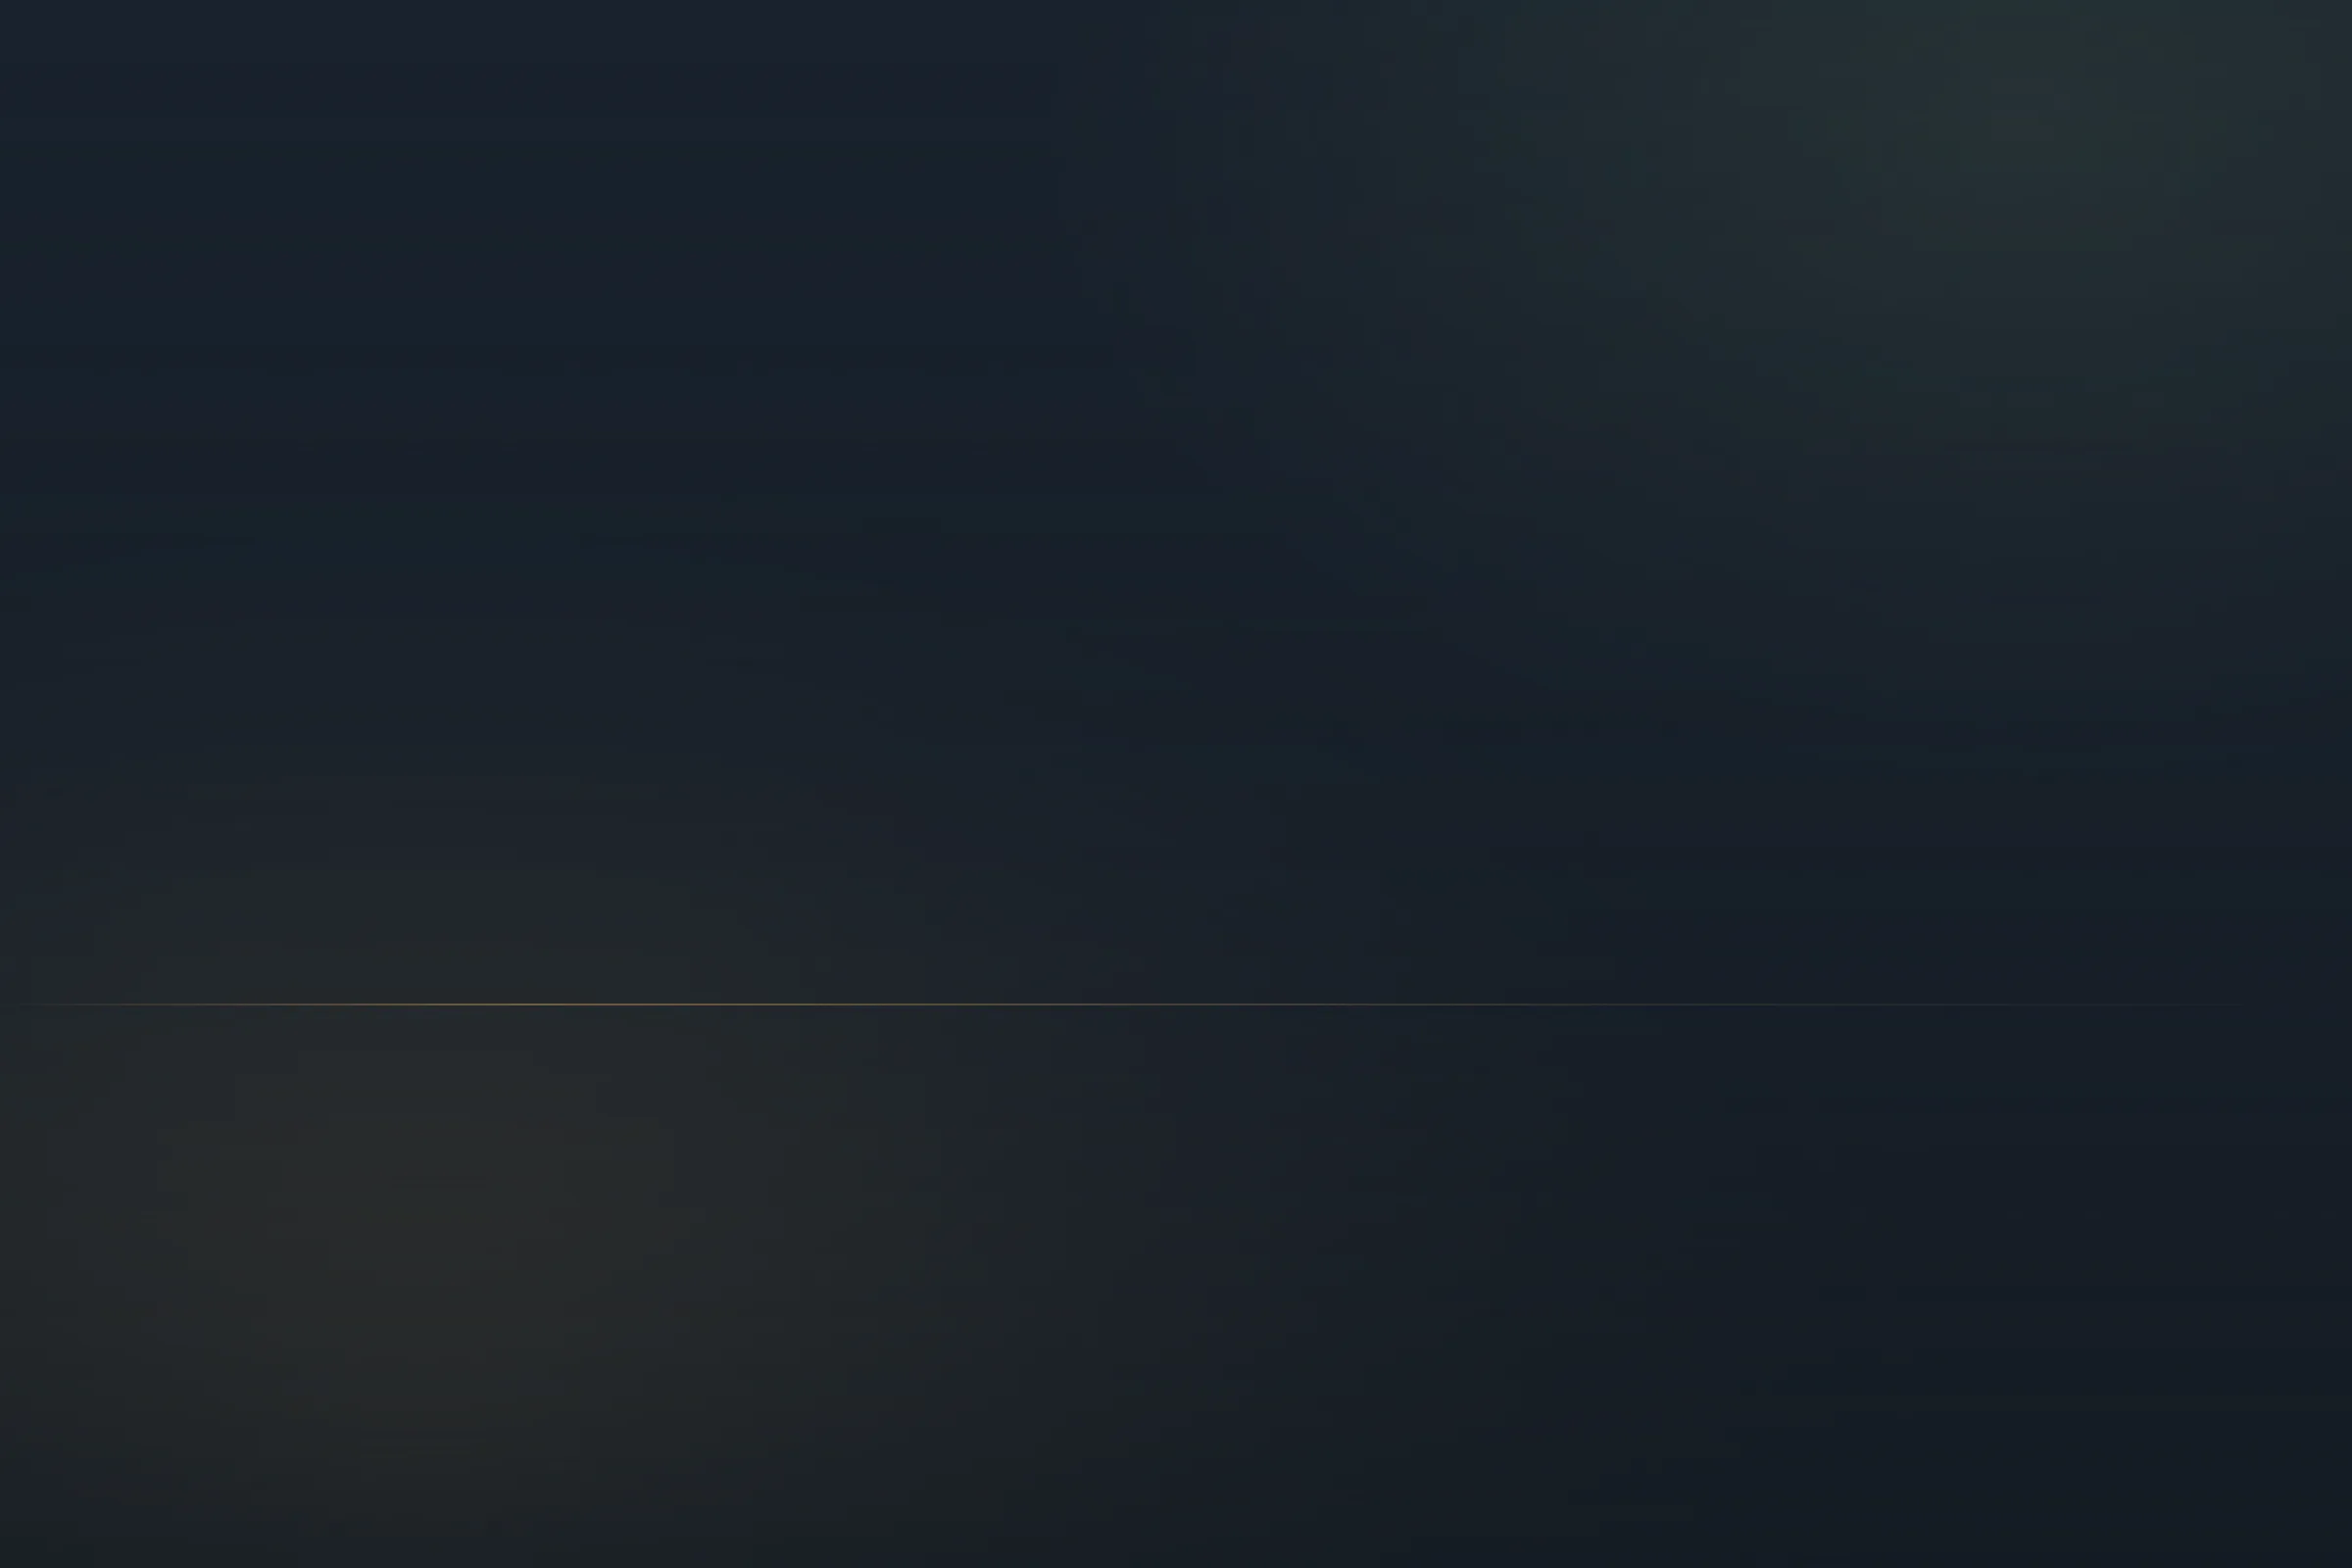
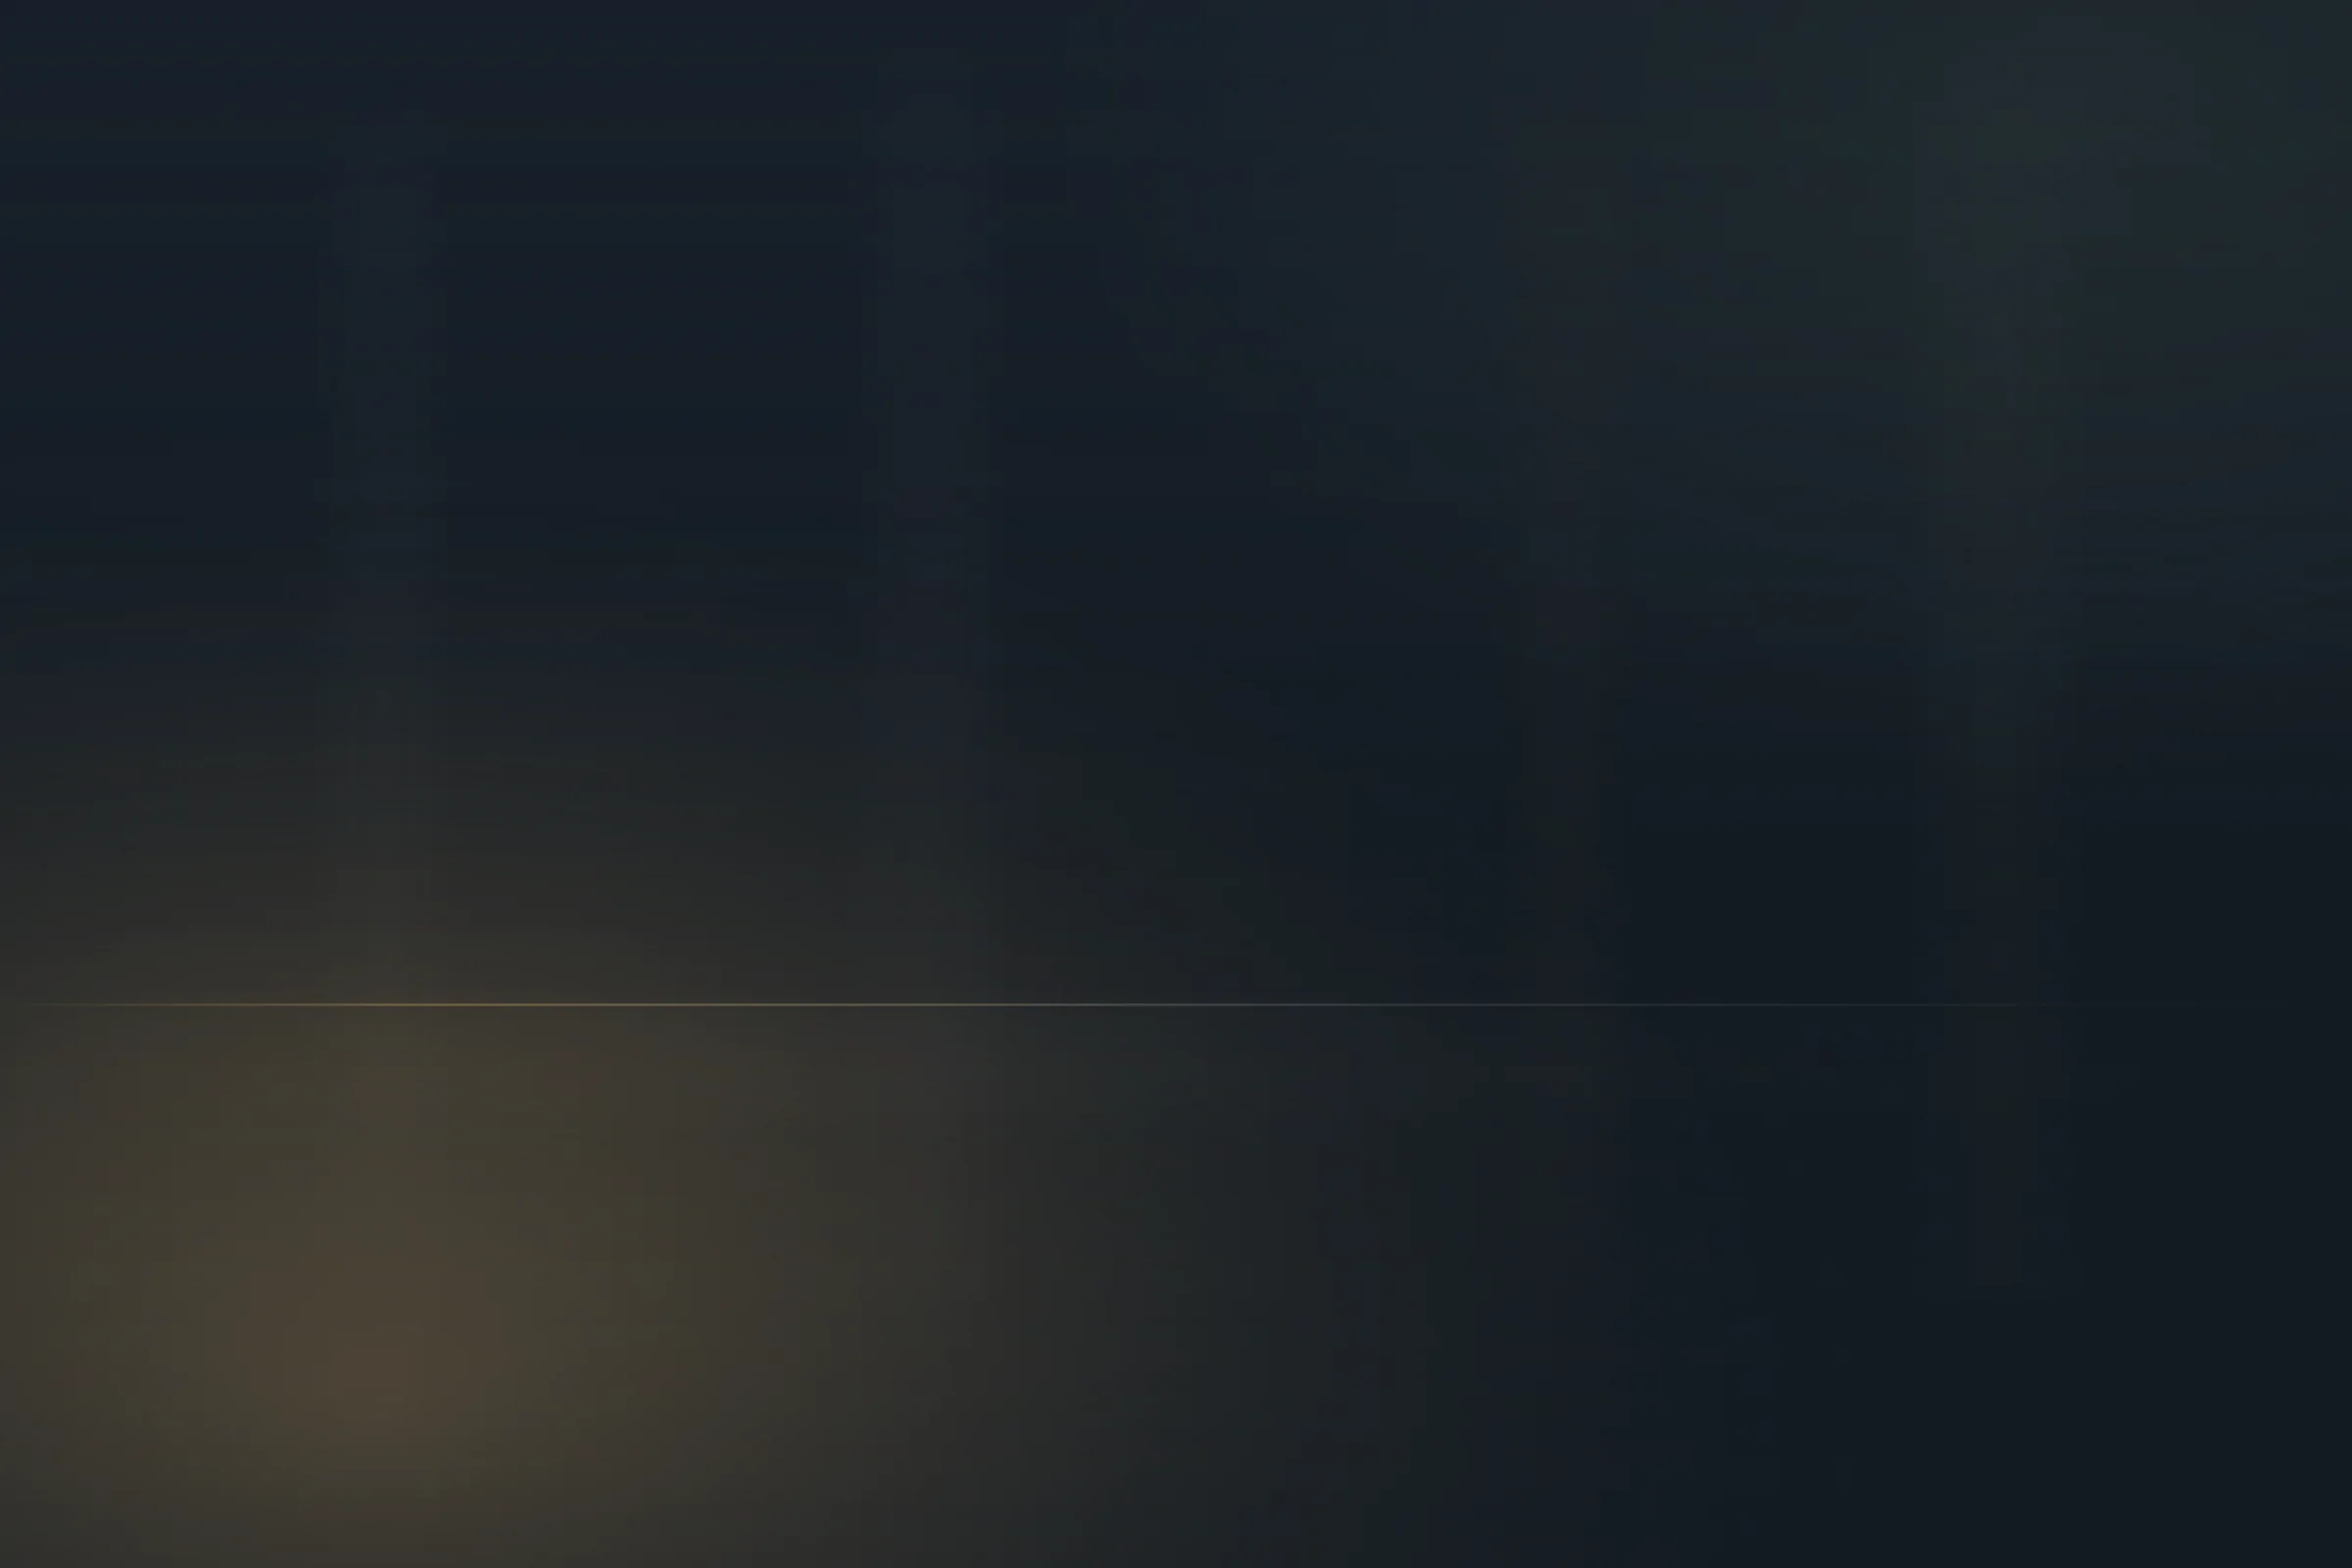
Sprint 6 — Portfolio Ready : finition, QA, perf et documentation
Finition visuelle et préparation portfolio (aucune nouvelle fonctionnalité) :

- Nettoyage code : `isProductionDeployment` n'est plus exporté (usage interne
  uniquement via `allowIndexing`).
- Métadonnées : ajout de `authors` / `creator` / `publisher` (Vertex Studio).
- Asset hero régénéré (étude de lumière abstraite, sans personne ni plat).
- README réécrit en pièce de portfolio : disclaimer démo fictive, stack,
  scripts, architecture, accessibilité, tableau Lighthouse mesuré, patterns
  réutilisables candidats à un Design System Vertex, hors-périmètre.

Lighthouse (build de prod, conteneur non contraint) : Desktop 99–100,
Mobile 91 ; A11y / Best Practices / SEO = 100. CLS 0, LCP desktop ~0,8 s.

Claude-Session: https://claude.ai/code/session_01Xy72odaLLib93k1v1FdfmK

Changed region(s): [[0.0, 0.625, 0.3125, 1.0]]

diff --git a/app/layout.tsx b/app/layout.tsx
@@ -22,6 +22,9 @@ export const metadata: Metadata = {
   title: siteMeta.title,
   description: siteMeta.description,
   applicationName: siteMeta.name,
+  authors: [{ name: "Vertex Studio" }],
+  creator: "Vertex Studio",
+  publisher: "Vertex Studio",
   alternates: {
     canonical: "/",
   },

diff --git a/lib/site-config.ts b/lib/site-config.ts
@@ -41,7 +41,7 @@ function isRealPublicUrl(value: string): boolean {
 }
 
 /** Vrai uniquement pour un déploiement de production avec URL publique réelle. */
-export const isProductionDeployment =
+const isProductionDeployment =
   process.env.NODE_ENV === "production" && isRealPublicUrl(siteUrl);
 
 /** Autoriser l'indexation seulement sur un déploiement de production réel. */

diff --git a/README.md b/README.md
@@ -1,72 +1,126 @@
-# Maison Aurore — Concept de démonstration Vertex Studio
+# Maison Aurore
 
-Site vitrine d'un restaurant gastronomique fictif à Bruges, réalisé pour le portfolio de
-Vertex Studio. **Maison Aurore n'est pas un établissement réel** : adresses, téléphone,
-producteurs et réservations sont des contenus de démonstration.
+Site vitrine d'un **restaurant gastronomique** contemporain à Bruges — cuisine de saison,
+terroir belge, hospitalité calme. Conçu et développé par **Vertex Studio** comme pièce de
+référence de son portfolio.
 
-Source de vérité du projet : les pages Notion `Portfolio / Maison Aurore`
-(Brief produit, UX & Wireframe, Direction artistique, Revue Sprint 1 & Spécifications Sprint 2).
+> **Concept de démonstration fictif.** Maison Aurore n'est pas un établissement réel.
+> Chef, menus, prix, producteurs, adresse, téléphone et réservation sont des contenus de
+> démonstration ; le formulaire de réservation ne transmet ni n'enregistre aucune donnée.
+> La mention du statut fictif est présente sur la page et en pied de page.
+
+Site en une page, éditorial et responsive, mesuré Lighthouse sur build de production
+(voir [Performance](#performance--accessibilité)).
 
 ## Stack
 
-- Next.js (App Router) + TypeScript strict
-- Tailwind CSS v4 (tokens dans `app/globals.css`)
-- Polices : Cormorant Garamond (titres) et Inter (interface) via `next/font`
-- Aucune autre dépendance d'exécution
+- **Next.js** (App Router) + **TypeScript strict**
+- **Tailwind CSS v4** — tokens de couleurs, typographie, espacements et mouvement dans
+  `app/globals.css`
+- Polices **Cormorant Garamond** (titres) et **Inter** (interface) via `next/font`
+- **Aucune dépendance d'exécution supplémentaire** — animations et lightbox en CSS +
+  APIs navigateur natives (IntersectionObserver, pas de Framer Motion)
 
-## Lancer le projet
+## Démarrer
 
 ```bash
 npm install
-npm run dev        # http://localhost:3000
+npm run dev          # http://localhost:3000
 ```
 
-## Vérifications
+## Scripts de qualité
 
 ```bash
-npm run typecheck  # tsc --noEmit
-npm run lint       # ESLint
-npm run build      # build de production
-npm run check      # typecheck + lint + build (identique à la CI)
-npm run start      # sert le build (port 3000)
+npm run typecheck    # tsc --noEmit (TypeScript strict)
+npm run lint         # ESLint
+npm run build        # build de production
+npm run check        # typecheck + lint + build (identique à la CI)
+npm run start        # sert le build de production
 ```
 
 La CI GitHub Actions (`.github/workflows/quality.yml`) exécute `npm run check` sur chaque
-push et pull request. Aucun secret n'est requis.
+push et pull request. Aucun secret requis.
+
+## Architecture
+
+```
+app/          layout (métadonnées, JSON-LD, polices), page, tokens CSS (globals.css),
+              icon.svg (favicon), not-found.tsx, robots.ts, sitemap.ts
+components/   navbar, hero, sections éditoriales, footer
+              + primitives réutilisables : Reveal, ButtonLink, SectionHeading,
+                ImagePlaceholder, Lightbox, GalleryGrid
+content/      contenus centralisés et typés (chef, menus, producteurs, expérience,
+              FAQ, infos site)
+lib/          site-config.ts — configuration dérivée de l'environnement
+public/images/ assets d'ambiance générés (hero, galerie) + image Open Graph
+```
+
+Principes : **Server Components par défaut**, Client Components réservés aux interactions
+(navbar mobile, formulaire de réservation, galerie/lightbox, révélations au scroll).
+Contenu centralisé et typé dans `content/`.
 
 ## Configuration d'environnement
 
-- `NEXT_PUBLIC_SITE_URL` — URL publique du site. Voir `.env.example`.
+- `NEXT_PUBLIC_SITE_URL` — URL publique du site (voir `.env.example`).
   - Vide en local → repli sûr `http://localhost:3000`.
   - En production, renseigner l'URL HTTPS réelle.
-- L'indexation par les moteurs (`robots.ts`, balise `robots`, `sitemap.ts`) n'est
-  activée **qu'en production avec une URL publique réelle**. Localhost et les
-  domaines `.example` / `.test` restent volontairement en `noindex`.
+- L'indexation (`robots.ts`, balise `robots`, `sitemap.ts`) n'est activée **qu'en
+  production avec une URL publique réelle**. Localhost et les domaines `.example` /
+  `.test` restent volontairement en `noindex`.
+- Données structurées : `CreativeWork` honnête (cas d'étude), **jamais** un schéma
+  `Restaurant` / `LocalBusiness` qui laisserait croire à un établissement réel.
 
-## Structure
+## Accessibilité
 
-- `app/` — layout (métadonnées, JSON-LD, polices), page d'accueil, tokens CSS,
-  favicon, `robots.ts`, `sitemap.ts`
-- `components/` — navigation, hero, sections (expérience, menus, chef,
-  producteurs, en salle, galerie, réservation démo, FAQ, infos pratiques),
-  footer, primitives réutilisables (`Reveal`, `ButtonLink`, `SectionHeading`)
-- `content/` — contenus centralisés et typés (chef, menus, producteurs,
-  expérience en salle, FAQ, infos site)
-- `lib/` — configuration du site dérivée de l'environnement (`site-config.ts`)
-- `public/images/` — assets générés pour la démonstration (hero, image Open Graph)
+- Structure sémantique, un seul `h1`, hiérarchie de titres cohérente.
+- Navigation clavier complète ; **focus visible** et ordre de tabulation contrôlés.
+- Menu mobile et lightbox : piège de focus, fermeture `Escape`, restauration du focus.
+- Formulaire de réservation : validation accessible (erreurs annoncées via `role="alert"`,
+  `aria-invalid` / `aria-describedby`, focus déplacé sur le résumé).
+- `prefers-reduced-motion` respecté globalement ; aucune information portée par la seule
+  couleur ; contrastes vérifiés (Lighthouse Accessibility 100).
+
+## Performance & accessibilité
+
+Mesuré sur build de production (`next build` + `next start`), Chromium headless, sur un
+conteneur non contraint (indice de référence CPU nominal).
+
+| Catégorie | Mobile | Desktop |
+|---|---|---|
+| Performance | 91 | 99–100 |
+| Accessibility | 100 | 100 |
+| Best Practices | 100 | 100 |
+| SEO | 100 | 100 |
+
+Core Web Vitals : **desktop** LCP ~0,8 s · CLS 0 · TBT 0 ms ; **mobile** LCP ~3,5 s
+(élément LCP = titre du hero, profil mobile bridé 4× CPU + 4G lent) · CLS 0 · TBT ~40 ms.
+Sur un conteneur momentanément saturé, le TBT desktop remonte artificiellement (surcharge
+CPU « Other » du conteneur, script applicatif ~80 ms) et le score chute ; ces mesures ont
+donc été prises indice de référence nominal. Aucun score n'a été amélioré au détriment du
+rendu ou de l'accessibilité.
 
 ## Assets & placeholders
 
-- Le visuel de hero (`public/images/hero-aurore.webp`) et l'image Open Graph
-  (`public/images/og-maison-aurore.png`) sont des visuels **abstraits générés pour
-  la démonstration**, sans aucune personne. Le hero est servi via `next/image`
-  (`fill`, `sizes`, `priority`, `placeholder="blur"`).
-- Les emplacements de photographies (portrait du chef, galerie, producteurs, plan)
-  restent des **placeholders explicites « Photo à venir »** : aucune photo de
-  personne réelle n'est inventée.
+- Le visuel de hero, les ambiances de galerie et l'image Open Graph sont des **visuels
+  abstraits générés** pour la démonstration (études de lumière et de matière, **sans
+  personne ni plat figuratif**), servis via `next/image`.
+- Les emplacements de photographies réelles (portrait du chef, gestes en cuisine)
+  restent des **placeholders explicites** : aucune photo de personne réelle n'est inventée.
+
+## Patterns réutilisables (candidats pour un futur Design System Vertex)
+
+- **`Reveal`** — révélations au scroll sans dépendance (IntersectionObserver), gated
+  `prefers-reduced-motion` + repli `@media (scripting: none)`.
+- **`Lightbox`** — dialogue accessible (focus trap + restauration, clavier, swipe, reduced-motion).
+- **`ButtonLink` / `buttonClasses()`** — boutons/liens à variantes, états hover/focus/active/disabled unifiés.
+- **`SectionHeading`** — en-tête de section éditorial numéroté.
+- **Patron de formulaire accessible** — résumé d'erreurs `role="alert"` + focus + `aria-describedby`.
 
 ## Hors périmètre (volontairement)
 
-Pas de moteur de réservation réel, paiement, CMS, base de données, analytics externe
-ni coordonnées présentées comme réelles. Le formulaire de réservation est une
-simulation qui n'envoie rien.
+Pas de réservation réelle, paiement, CMS, base de données, authentification, analytics
+externe, avis clients réels ni coordonnées présentées comme réelles.
+
+---
+
+Concept, design et développement : **Vertex Studio**. Projet de démonstration.